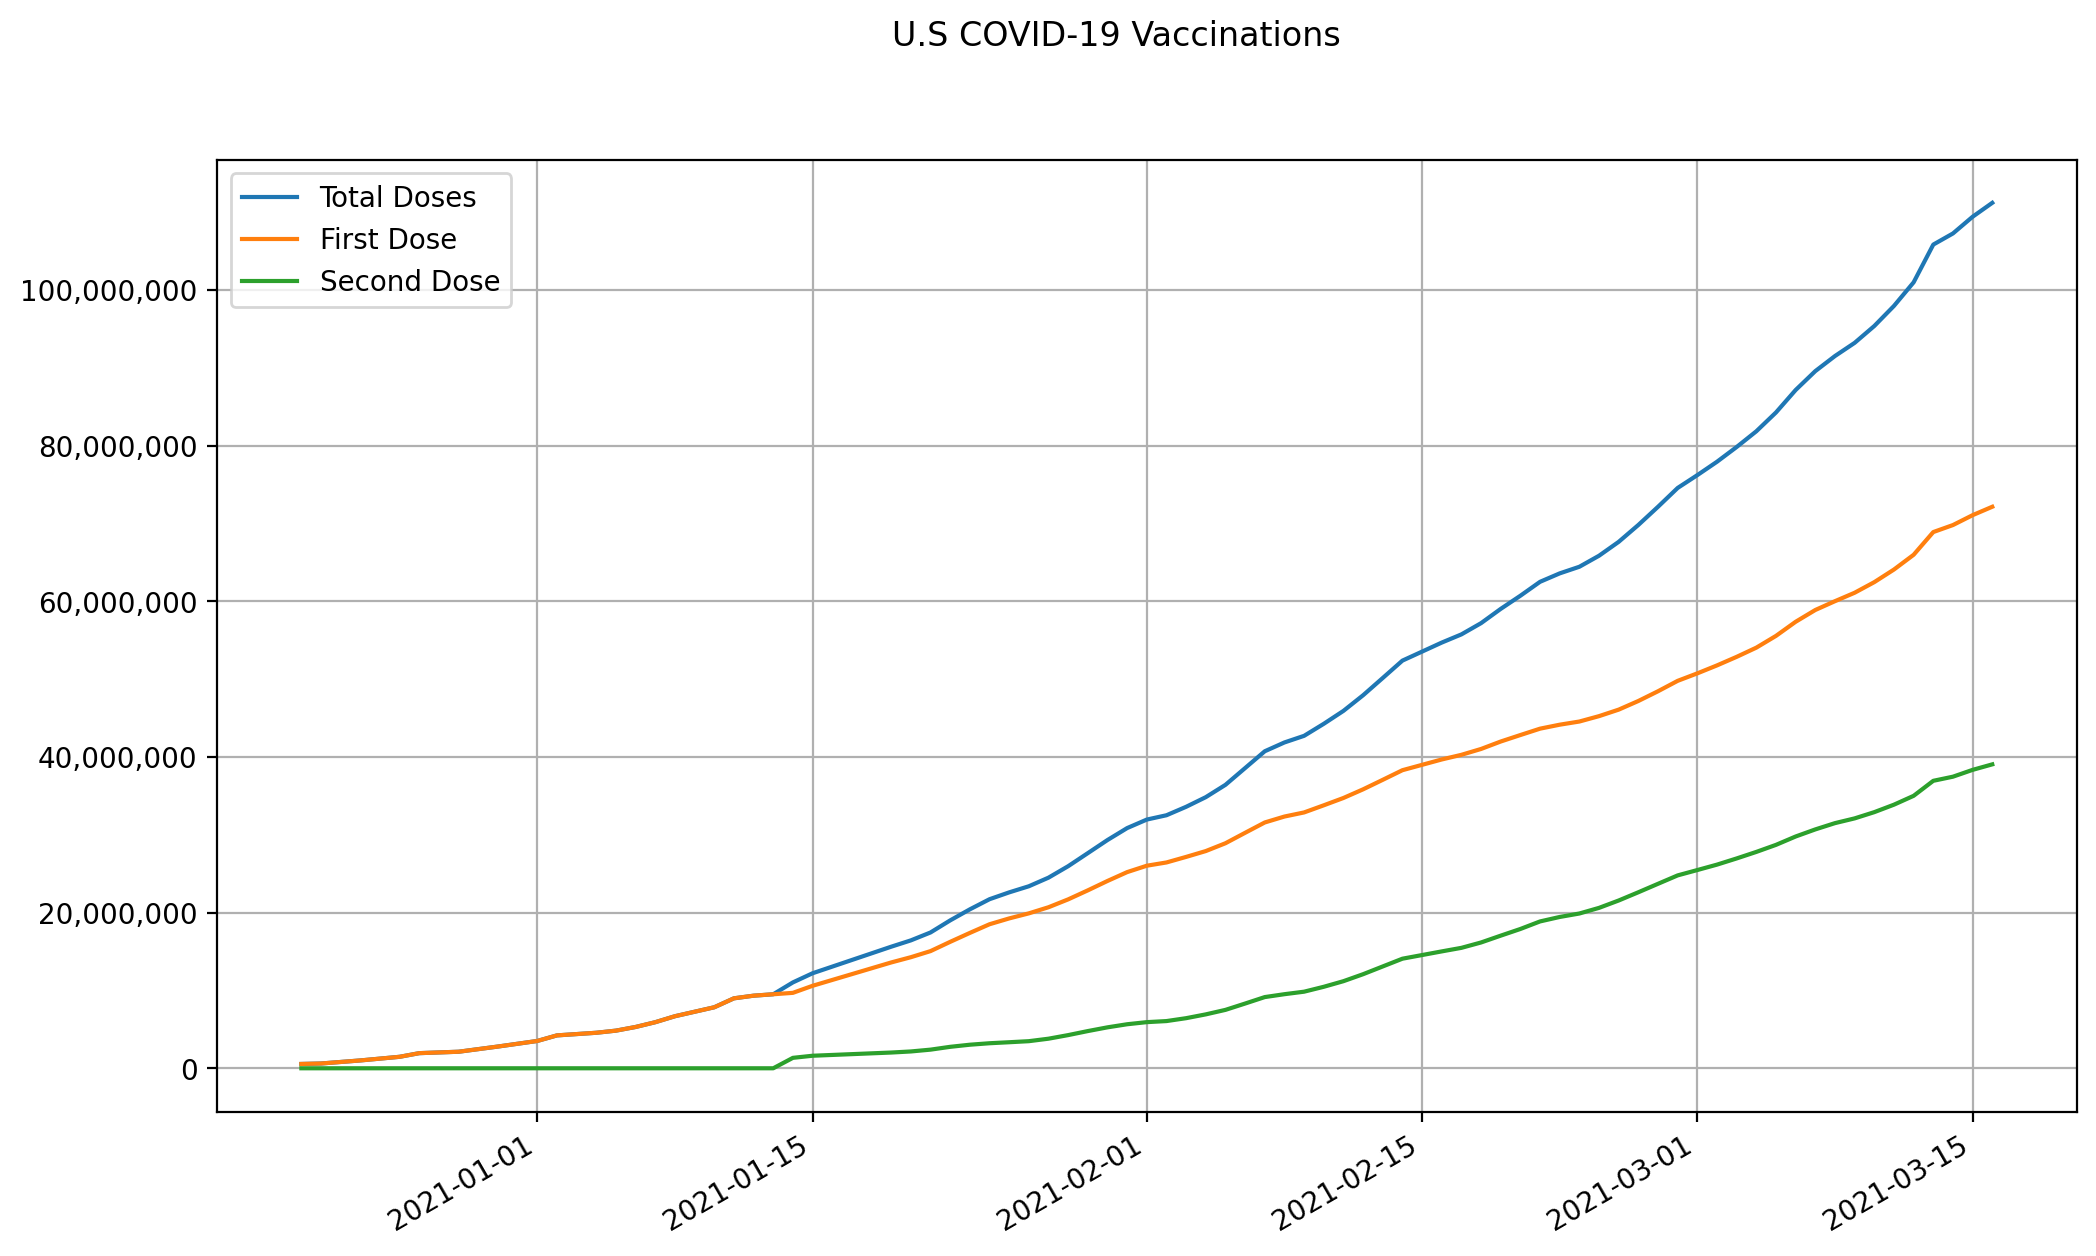
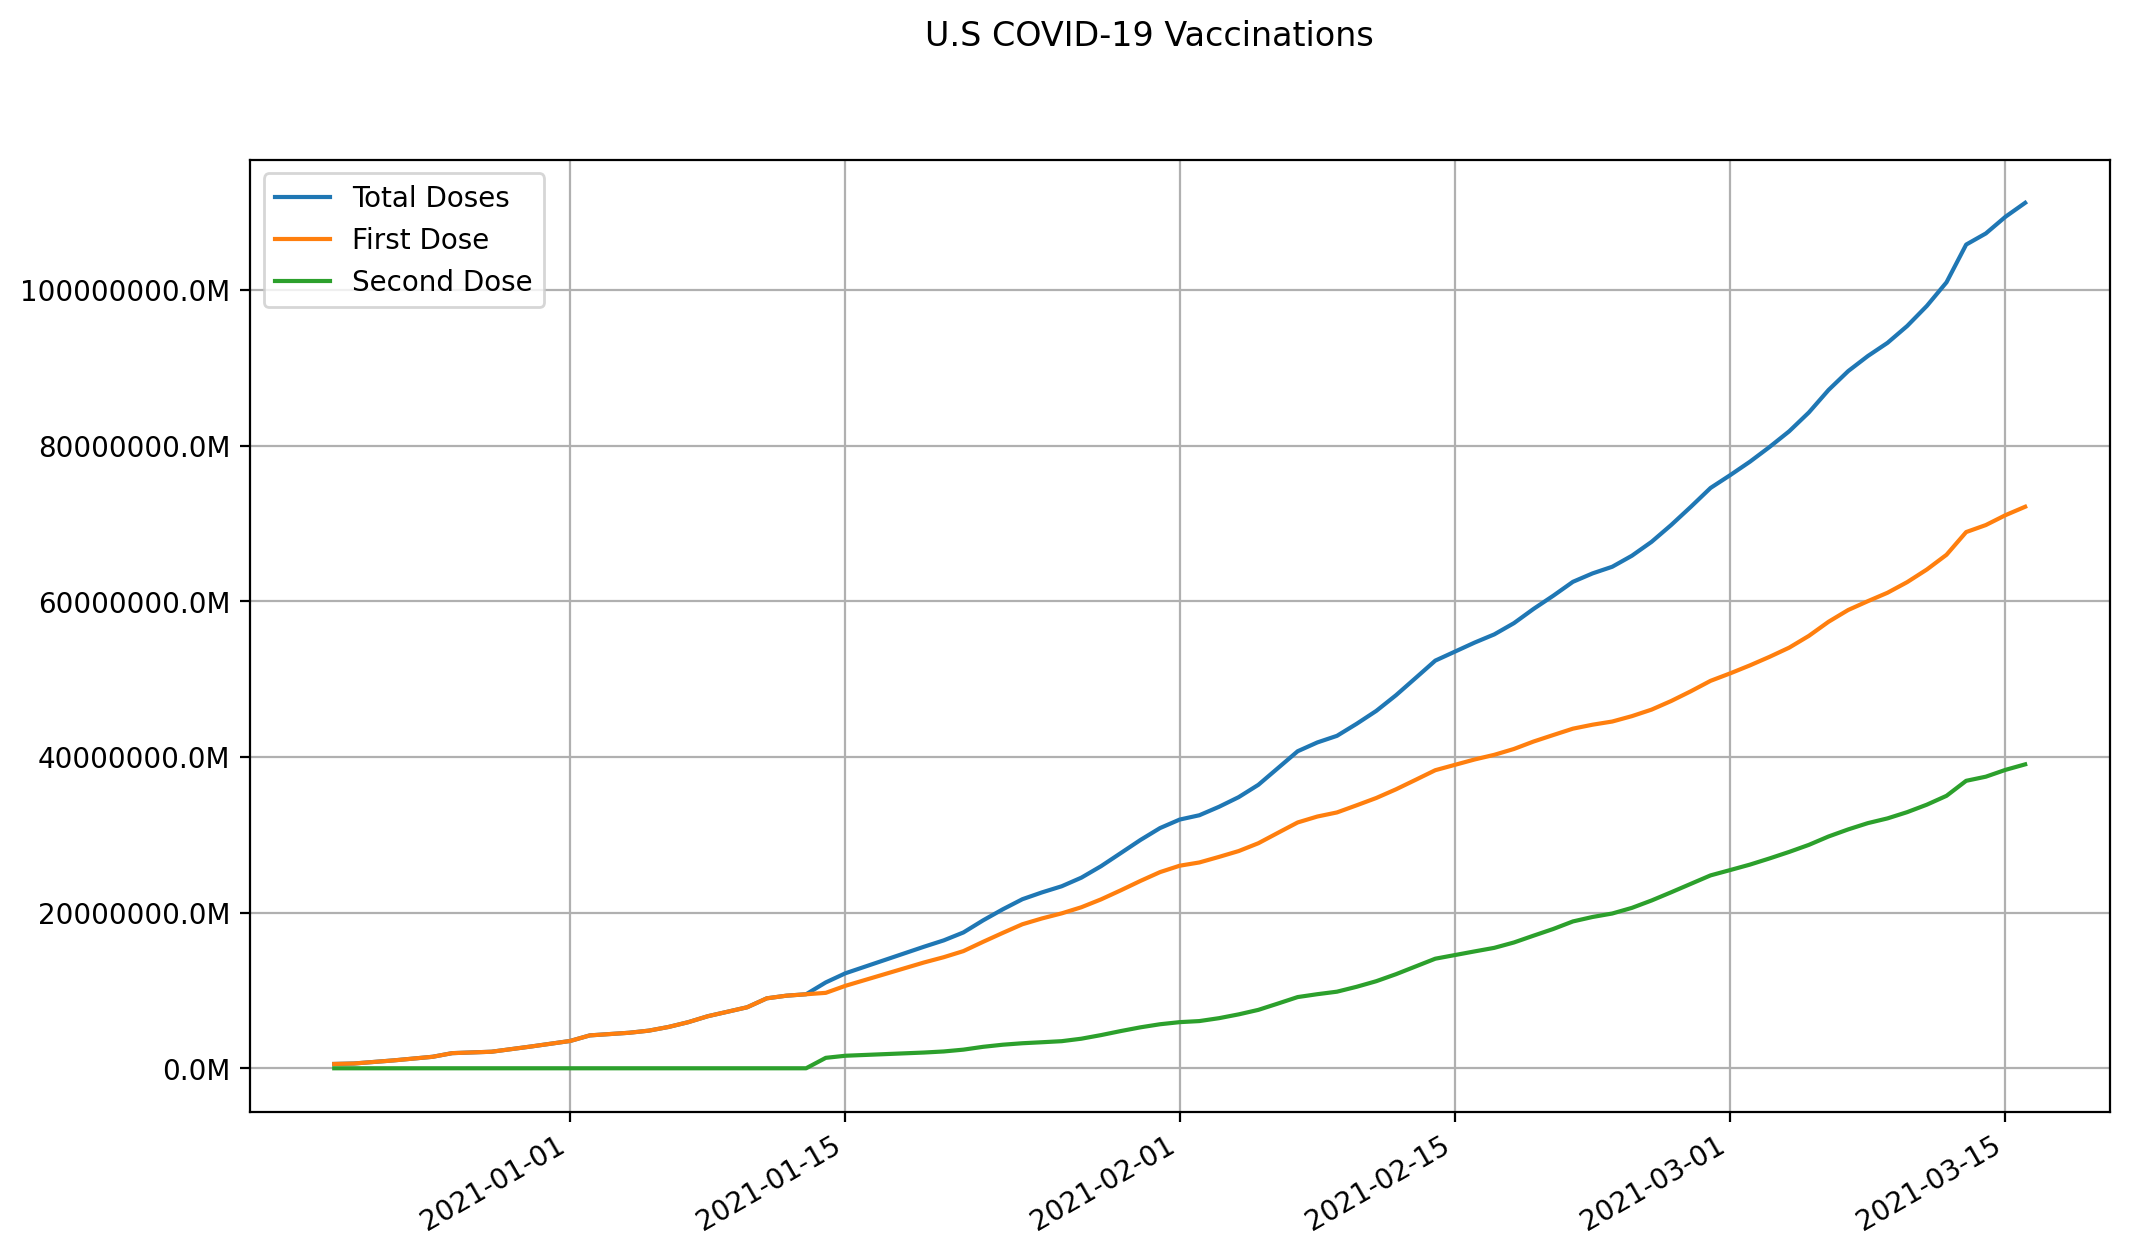
Updating data.

diff --git a/main.py b/main.py
@@ -315,7 +315,7 @@ while True:
         fig, ax = plt.subplots(figsize=(12, 7), dpi=200)
         fig.suptitle('U.S COVID-19 Vaccinations')
         ax.get_yaxis().set_major_formatter(
-                tkr.FuncFormatter(lambda y, p: f"{int(y):,d}"))
+                tkr.FuncFormatter(lambda y, p: f"{y:1.1f}M"))
         fig.autofmt_xdate()
         ax.grid(True)
         ax.plot(x, y1, label='Total Doses')

diff --git a/README.md b/README.md
@@ -1,4 +1,4 @@
-###### Updated March 17, 2021, 7:50 P.M EST
+###### Updated March 17, 2021, 7:54 P.M EST
 # US COVID-19 Data 
 ###### [ [U.S. Data](us.csv) ([Raw CSV](https://raw.githubusercontent.com/drebrb/covid-19-data/master/us.csv)) | [U.S. State-Level Data](states) ]
 | U.S    | Total Reported   | On March 16   | 7-Day Average   |
